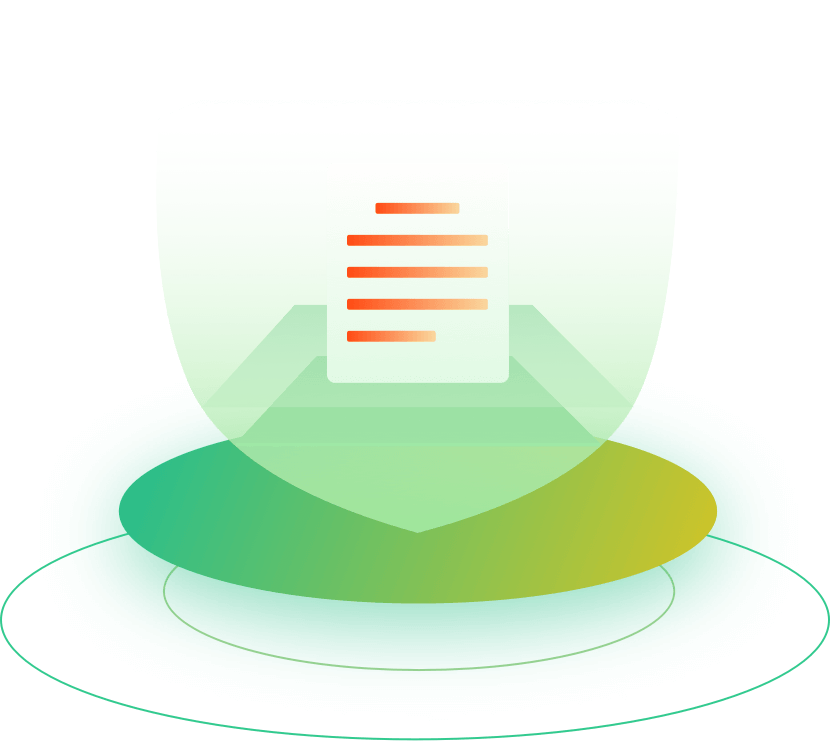
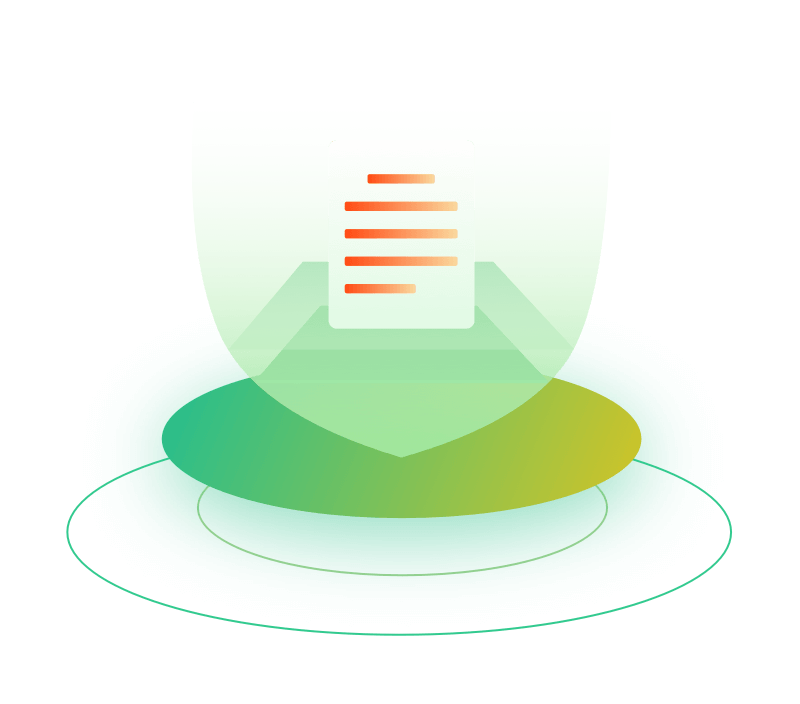
update：资源页面按钮样式修改

diff --git a/src/resources/index.html b/src/resources/index.html
@@ -53,10 +53,13 @@
                         <div class="detail-content mx-auto">
                             让科学看得见  让思维可触及
                         </div>
-                        <div class="button-border mx-auto">
-                            <div class="button-content flex mx-auto flex-row items-center">
-                                <div class="button-text text-center">了解更多</div>
-                                <div class="enter"><img src="img/enter.svg"></div>
+                        <div class="detail-button mx-auto">
+                            <div class="button-shadow"></div>
+                            <div class="button-border">
+                                <div class="button-content flex mx-auto flex-row items-center">
+                                    <div class="button-text text-center">了解更多</div>
+                                    <div class="enter"><img src="img/enter.svg"></div>
+                                </div>
                             </div>
                         </div>
                     </div>
@@ -70,10 +73,13 @@
                         <div class="detail-content mx-auto">
                             让学习成为美好体验
                         </div>
-                        <div class="button-border mx-auto">
-                            <div class="button-content flex mx-auto flex-row items-center">
-                                <div class="button-text text-center">了解更多</div>
-                                <div class="enter"><img src="img/enter.svg"></div>
+                        <div class="detail-button mx-auto">
+                            <div class="button-shadow"></div>
+                            <div class="button-border">
+                                <div class="button-content flex mx-auto flex-row items-center">
+                                    <div class="button-text text-center">了解更多</div>
+                                    <div class="enter"><img src="img/enter.svg"></div>
+                                </div>
                             </div>
                         </div>
                     </div>
@@ -87,10 +93,13 @@
                         <div class="detail-content mx-auto">
                             教学  学习好帮手
                         </div>
-                        <div class="button-border mx-auto">
-                            <div class="button-content flex mx-auto flex-row items-center">
-                                <div class="button-text text-center">了解更多</div>
-                                <div class="enter"><img src="img/enter.svg"></div>
+                        <div class="detail-button mx-auto">
+                            <div class="button-shadow"></div>
+                            <div class="button-border">
+                                <div class="button-content flex mx-auto flex-row items-center">
+                                    <div class="button-text text-center">了解更多</div>
+                                    <div class="enter"><img src="img/enter.svg"></div>
+                                </div>
                             </div>
                         </div>
                     </div>

diff --git a/src/resources/css/resources@small.css b/src/resources/css/resources@small.css
@@ -44,12 +44,12 @@
     padding-bottom: 39px;
 }
 .detail:nth-of-type(2){
-    margin: 18pt 0;
+    margin: 16px 0;
 }
 .detail-img{
-    width: 291px;
-    height: 284px;
-    margin-top: 11px;
+    width: 288px;
+    height: 253px;
+    margin-top: 32px;
 }
 .detail-img img{
     width: 100%;
@@ -78,14 +78,30 @@
     font-size: 14px;
     color: #8A8A8A;
 }
+.detail-button{
+    margin-top: 31px;
+    width: 133px;
+    height: 45px;
+    position: relative;
+}
+.button-shadow{
+    position: absolute;
+    top: 9px;
+    width: 133px;
+    height: 32px;
+    opacity: 0.38;
+    background: #38DB96;
+    border-radius: 19px;
+    filter: blur(8px);
+}
 .button-border{
     cursor: pointer;
+    position: absolute;
+    top: 0;
     width: 133px;
     height: 32px;
     background: #38DB96;
     border-radius: 19px;
-    margin-top: 31px;
-    box-shadow: 0 10px 20px 0 #38DB96;
 }
 .button-content{
     width: 70px;

diff --git a/src/resources/css/resources@xx-large.css b/src/resources/css/resources@xx-large.css
@@ -52,9 +52,9 @@
     margin: 0 18pt;
 }
 .detail-img{
-    width: 497px;
-    height: 410px;
-    margin-top: 65px;
+    width: 400px;
+    height: 352px;
+    margin-top: 94px;
 }
 .detail-img img{
     width: 100%;
@@ -83,14 +83,30 @@
     font-size: 16px;
     color: #8A8A8A;
 }
-.button-border{
+.detail-button{
     margin-top: 51px;
+    width: 190px;
+    height: 60px;
+    position: relative;
+}
+.button-shadow{
+    position: absolute;
+    top: 12.5px;
+    width: 190px;
+    height: 45px;
+    opacity: 0.38;
+    background: #38DB96;
+    border-radius: 27.5px;
+    filter: blur(8px);
+}
+.button-border{
     cursor: pointer;
+    position: absolute;
+    top: 0;
     width: 190px;
     height: 45px;
     background: #38DB96;
     border-radius: 27.5px;
-    box-shadow: 0 10px 20px 0 #38DB96;
 }
 .button-content{
     width: 84px;

diff --git a/src/resources/css/resources@large.css b/src/resources/css/resources@large.css
@@ -83,14 +83,30 @@
     font-size: 16px;
     color: #8A8A8A;
 }
-.button-border{
+.detail-button{
     margin-top: 51px;
+    width: 190px;
+    height: 60px;
+    position: relative;
+}
+.button-shadow{
+    position: absolute;
+    top: 12.5px;
+    width: 190px;
+    height: 45px;
+    opacity: 0.38;
+    background: #38DB96;
+    border-radius: 27.5px;
+    filter: blur(8px);
+}
+.button-border{
     cursor: pointer;
+    position: absolute;
+    top: 0;
     width: 190px;
     height: 45px;
     background: #38DB96;
     border-radius: 27.5px;
-    box-shadow: 0 10px 20px 0 #38DB96;
 }
 .button-content{
     width: 84px;

diff --git a/src/resources/css/resources@medium.css b/src/resources/css/resources@medium.css
@@ -83,14 +83,30 @@
     font-size: 11px;
     color: #8A8A8A;
 }
-.button-border{
+.detail-button{
     margin-top: 35px;
+    width: 133px;
+    height: 45px;
+    position: relative;
+}
+.button-shadow{
+    position: absolute;
+    top: 9px;
+    width: 133px;
+    height: 32px;
+    opacity: 0.38;
+    background: #38DB96;
+    border-radius: 19px;
+    filter: blur(8px);
+}
+.button-border{
     cursor: pointer;
+    position: absolute;
+    top: 0;
     width: 133px;
     height: 32px;
     background: #38DB96;
     border-radius: 19px;
-    box-shadow: 0 10px 20px 0 #38DB96;
 }
 .button-content{
     width: 65px;
